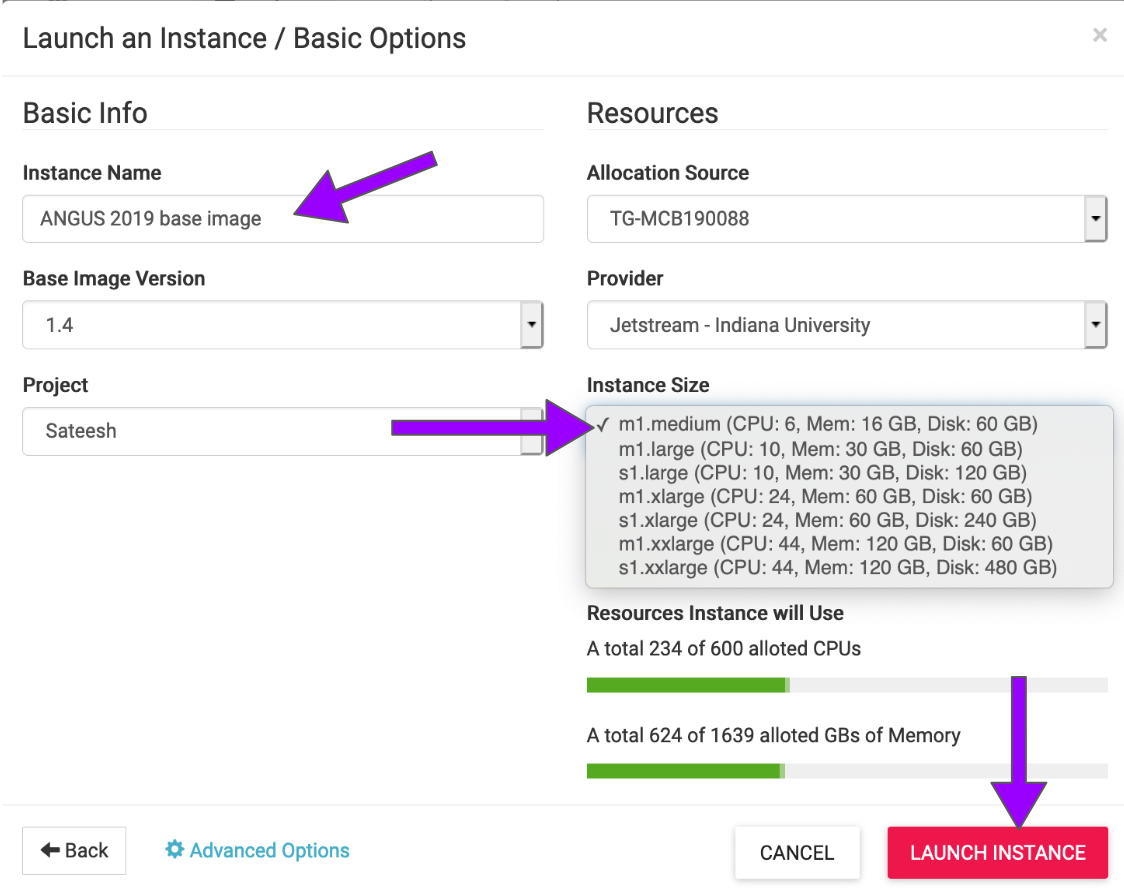
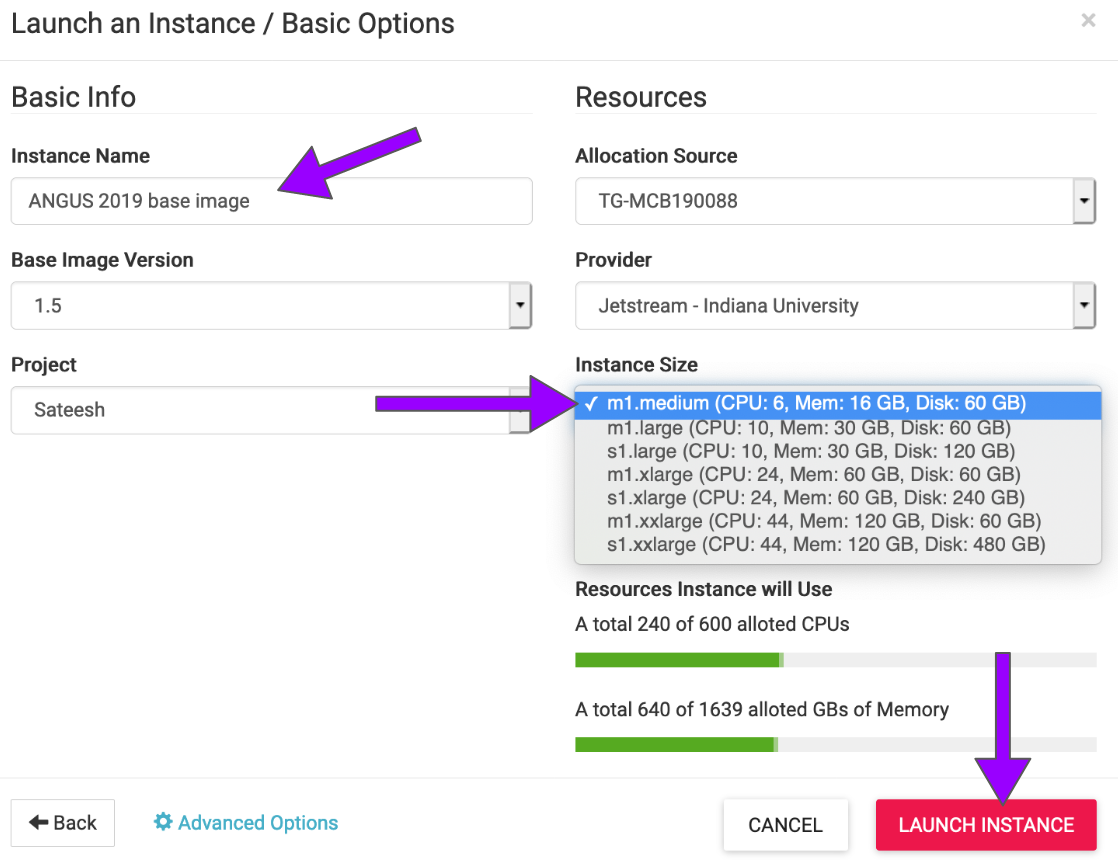
updating jetstream/boot.md to image v1.5

diff --git a/jetstream/boot.md b/jetstream/boot.md
@@ -60,7 +60,7 @@ You will be presented with options to choose and configure your virtual machine 
 
 * **Instance Name: e.x., "ANGUS 2019 base image" or you can leave it default which is the image name.**
 
-* **Base Image Version: "1.4"**
+* **Base Image Version: "1.5"**
 
 * **Project: select your project folder**
 
